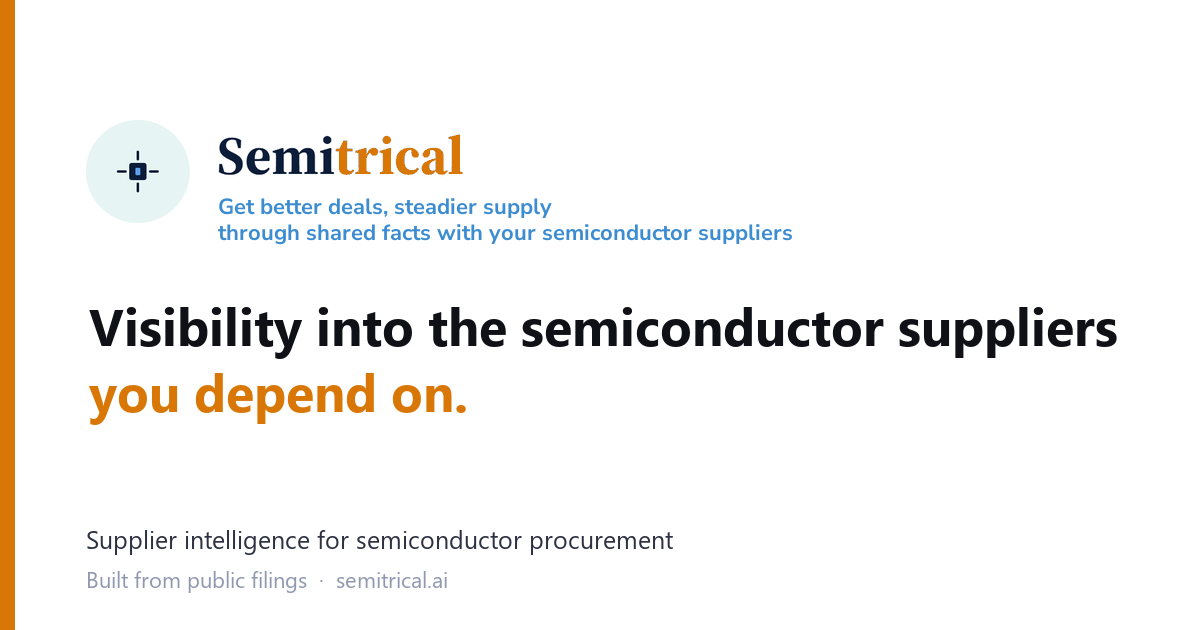
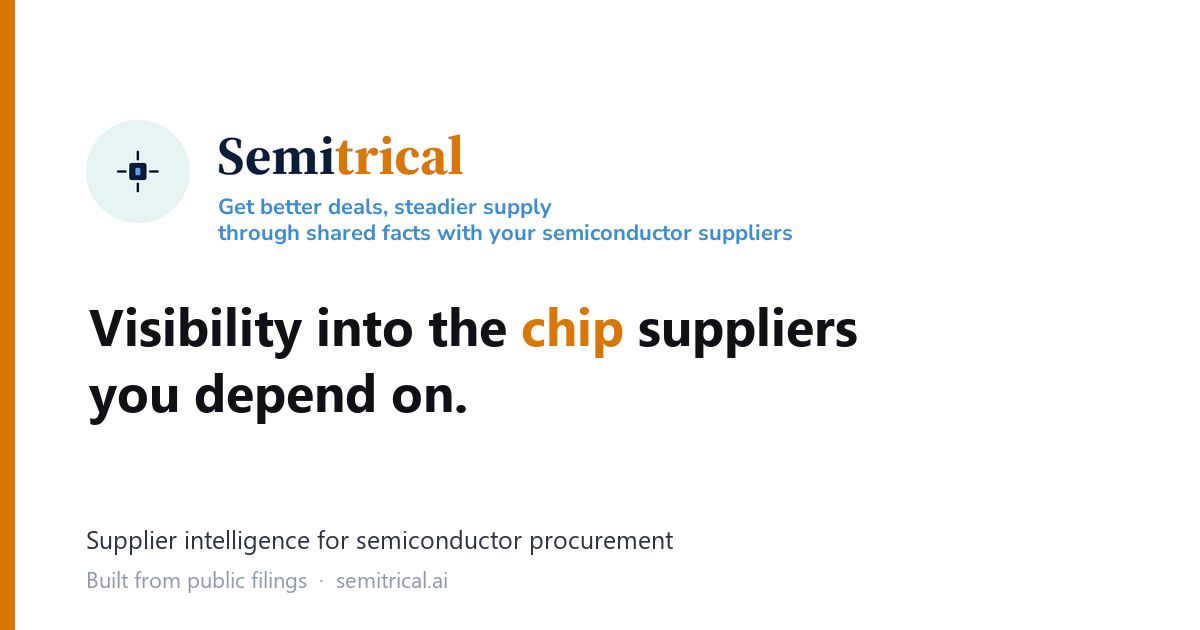
copy: headline back to 'chip suppliers', with 'chip' in the accent orange
Amit's call, reversing this morning's switch to 'semiconductor'. 'Chip' is the one orange word
in the headline on the page and in the share image; 'you depend on.' is now plain ink in the
image so the headline has one accent everywhere.

Changed region(s): [[0.4317, 0.4825, 0.9558, 0.573], [0.0617, 0.6032, 0.4008, 0.6937]]

diff --git a/index.html b/index.html
@@ -14,7 +14,7 @@
 <meta property="og:image" content="https://semitrical.ai/assets/img/og-semitrical.png">
 <meta property="og:image:width" content="1200">
 <meta property="og:image:height" content="630">
-<meta property="og:image:alt" content="Semitrical — visibility into the semiconductor suppliers you depend on">
+<meta property="og:image:alt" content="Semitrical — visibility into the chip suppliers you depend on">
 <meta name="twitter:card" content="summary_large_image">
 <meta name="twitter:title" content="Semitrical — Semiconductor procurement intelligence">
 <meta name="twitter:description" content="Semitrical reads semiconductor suppliers' own filings and earnings calls, so buyers and their suppliers work from the same facts: better deals and steadier supply.">
@@ -43,7 +43,7 @@
 <!-- ── Hero ─────────────────────────────────────────────────────────────────────────── -->
 <header class="hero">
   <span class="hero-badge">SUPPLIER INTELLIGENCE FOR SEMICONDUCTOR PROCUREMENT</span>
-  <h1>Visibility into the semiconductor suppliers you depend on.</h1>
+  <h1>Visibility into the <span style="color:var(--gold)">chip</span> suppliers you depend on.</h1>
   <p class="hero-sub">
     Get better deals, steadier supply through shared facts with your semiconductor suppliers.
   </p>

diff --git a/supplier-intelligence.html b/supplier-intelligence.html
@@ -14,7 +14,7 @@
 <meta property="og:image" content="https://semitrical.ai/assets/img/og-semitrical.png">
 <meta property="og:image:width" content="1200">
 <meta property="og:image:height" content="630">
-<meta property="og:image:alt" content="Semitrical — visibility into the semiconductor suppliers you depend on">
+<meta property="og:image:alt" content="Semitrical — visibility into the chip suppliers you depend on">
 <meta name="twitter:card" content="summary_large_image">
 <meta name="twitter:title" content="Supplier Intelligence — Semitrical">
 <meta name="twitter:description" content="What a semiconductor supplier can afford to do, read from their own filings and earnings calls. Every figure traces to the document it came from.">

diff --git a/deal-desk.html b/deal-desk.html
@@ -14,7 +14,7 @@
 <meta property="og:image" content="https://semitrical.ai/assets/img/og-semitrical.png">
 <meta property="og:image:width" content="1200">
 <meta property="og:image:height" content="630">
-<meta property="og:image:alt" content="Semitrical — visibility into the semiconductor suppliers you depend on">
+<meta property="og:image:alt" content="Semitrical — visibility into the chip suppliers you depend on">
 <meta name="twitter:card" content="summary_large_image">
 <meta name="twitter:title" content="Deal Desk — Semitrical">
 <meta name="twitter:description" content="Technology-specific negotiation intelligence for silicon carbide and DRAM, built from the supplier's own suppliers, competitors and customers.">

diff --git a/markets.html b/markets.html
@@ -14,7 +14,7 @@
 <meta property="og:image" content="https://semitrical.ai/assets/img/og-semitrical.png">
 <meta property="og:image:width" content="1200">
 <meta property="og:image:height" content="630">
-<meta property="og:image:alt" content="Semitrical — visibility into the semiconductor suppliers you depend on">
+<meta property="og:image:alt" content="Semitrical — visibility into the chip suppliers you depend on">
 <meta name="twitter:card" content="summary_large_image">
 <meta name="twitter:title" content="Markets — Semitrical">
 <meta name="twitter:description" content="Built for automotive Tier-1 procurement. The same supplier intelligence applies across industrial, consumer electronics and AI infrastructure.">

diff --git a/reports.html b/reports.html
@@ -14,7 +14,7 @@
 <meta property="og:image" content="https://semitrical.ai/assets/img/og-semitrical.png">
 <meta property="og:image:width" content="1200">
 <meta property="og:image:height" content="630">
-<meta property="og:image:alt" content="Semitrical — visibility into the semiconductor suppliers you depend on">
+<meta property="og:image:alt" content="Semitrical — visibility into the chip suppliers you depend on">
 <meta name="twitter:card" content="summary_large_image">
 <meta name="twitter:title" content="Reports — Semitrical">
 <meta name="twitter:description" content="Supplier leverage reports built from filed accounts and earnings calls, with every figure traced to the document it came from.">

diff --git a/about.html b/about.html
@@ -14,7 +14,7 @@
 <meta property="og:image" content="https://semitrical.ai/assets/img/og-semitrical.png">
 <meta property="og:image:width" content="1200">
 <meta property="og:image:height" content="630">
-<meta property="og:image:alt" content="Semitrical — visibility into the semiconductor suppliers you depend on">
+<meta property="og:image:alt" content="Semitrical — visibility into the chip suppliers you depend on">
 <meta name="twitter:card" content="summary_large_image">
 <meta name="twitter:title" content="About — Semitrical">
 <meta name="twitter:description" content="A semiconductor procurement operator and an enterprise AI practitioner. Everything traces to a document; nothing forecasts.">

diff --git a/privacy.html b/privacy.html
@@ -14,7 +14,7 @@
 <meta property="og:image" content="https://semitrical.ai/assets/img/og-semitrical.png">
 <meta property="og:image:width" content="1200">
 <meta property="og:image:height" content="630">
-<meta property="og:image:alt" content="Semitrical — visibility into the semiconductor suppliers you depend on">
+<meta property="og:image:alt" content="Semitrical — visibility into the chip suppliers you depend on">
 <meta name="twitter:card" content="summary_large_image">
 <meta name="twitter:title" content="About — Semitrical">
 <meta name="twitter:description" content="A semiconductor procurement operator and an enterprise AI practitioner. Everything traces to a document; nothing forecasts.">

diff --git a/contact.html b/contact.html
@@ -15,7 +15,7 @@
 <meta property="og:image" content="https://semitrical.ai/assets/img/og-semitrical.png">
 <meta property="og:image:width" content="1200">
 <meta property="og:image:height" content="630">
-<meta property="og:image:alt" content="Semitrical — visibility into the semiconductor suppliers you depend on">
+<meta property="og:image:alt" content="Semitrical — visibility into the chip suppliers you depend on">
 <meta name="twitter:card" content="summary_large_image">
 <meta name="twitter:title" content="Contact — Semitrical">
 <meta name="twitter:description" content="Send a list of your chip suppliers and get an intelligence read back. No contract and no NDA required to start.">

diff --git a/three-suppliers.html b/three-suppliers.html
@@ -14,7 +14,7 @@
 <meta property="og:image" content="https://semitrical.ai/assets/img/og-semitrical.png">
 <meta property="og:image:width" content="1200">
 <meta property="og:image:height" content="630">
-<meta property="og:image:alt" content="Semitrical — visibility into the semiconductor suppliers you depend on">
+<meta property="og:image:alt" content="Semitrical — visibility into the chip suppliers you depend on">
 <meta name="twitter:card" content="summary_large_image">
 <meta name="twitter:title" content="Name your three suppliers — Semitrical">
 <meta name="twitter:description" content="Tell us the three you negotiate with most and we will send back what their own filings say.">

diff --git a/evidence.html b/evidence.html
@@ -14,7 +14,7 @@
 <meta property="og:image" content="https://semitrical.ai/assets/img/og-semitrical.png">
 <meta property="og:image:width" content="1200">
 <meta property="og:image:height" content="630">
-<meta property="og:image:alt" content="Semitrical — visibility into the semiconductor suppliers you depend on">
+<meta property="og:image:alt" content="Semitrical — visibility into the chip suppliers you depend on">
 <meta name="twitter:card" content="summary_large_image">
 <meta name="twitter:title" content="Evidence — Semitrical">
 <meta name="twitter:description" content="Three worked examples anyone can check: Nexperia, Integrated Silicon Solution and STMicroelectronics.">

diff --git a/choose-suppliers.html b/choose-suppliers.html
@@ -14,7 +14,7 @@
 <meta property="og:image" content="https://semitrical.ai/assets/img/og-semitrical.png">
 <meta property="og:image:width" content="1200">
 <meta property="og:image:height" content="630">
-<meta property="og:image:alt" content="Semitrical — visibility into the semiconductor suppliers you depend on">
+<meta property="og:image:alt" content="Semitrical — visibility into the chip suppliers you depend on">
 <meta name="twitter:card" content="summary_large_image">
 <meta name="twitter:title" content="Choose your suppliers — Semitrical">
 <meta name="twitter:description" content="Pick the suppliers you buy from and we will send you the price.">
